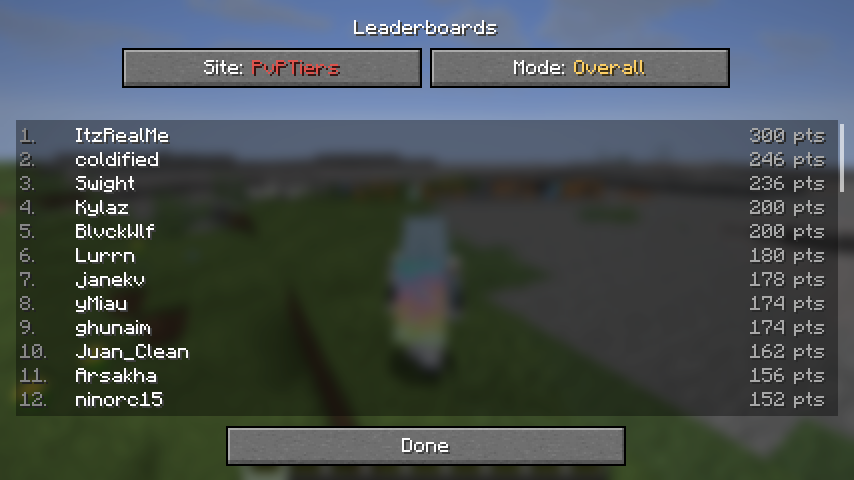
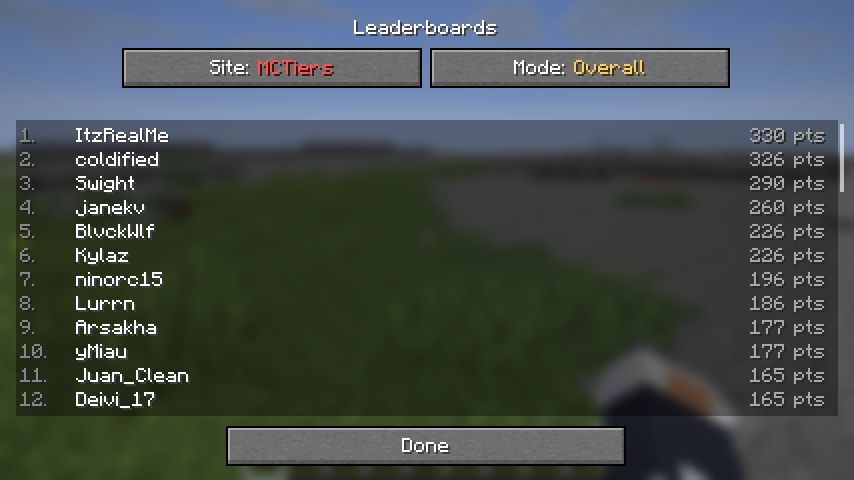
README: rewrite for 1.6.0 with fresh screenshots

diff --git a/README.md b/README.md
@@ -1,10 +1,10 @@
-<img src="src/main/resources/assets/qtiers/icon.png" width="96" align="right" alt="QTiers logo">
+<img src="common/src/main/resources/assets/qtiers/icon.png" width="96" align="right" alt="QTiers logo">
 
 # QTiers
 
 **Every PvP tier list, right next to a player's name.**
 
-QTiers is a Fabric client mod for **Minecraft 1.21.4, 1.21.8, 1.21.11, 26.1, 26.2 and 26.3**. It shows players' tier-list ranks in nametags and in the tab list, from six tier lists at once:
+QTiers is a Fabric client mod that shows players' tier-list ranks in nametags and in the tab list. It covers six tier lists at once:
 
 | Tier list | Label |
 |---|---|
@@ -15,7 +15,9 @@ QTiers is a Fabric client mod for **Minecraft 1.21.4, 1.21.8, 1.21.11, 26.1, 26.
 | [PVPHQ](https://pvphq.com) | HQ |
 | [TierMC](https://tiermc.com) | TMC |
 
-It works like TierTagger, but covers every site, and each site keeps its own icons. It runs only on your client, so it works on any server.
+It works like TierTagger, but covers every site, and each site keeps its own icons. It runs only on your client, so it works on any server, including ones with custom nametags like mcpvp.club.
+
+**Minecraft versions:** 1.21.4, 1.21.6 – 1.21.8, 1.21.11, 26.1 – 26.1.2, 26.2 and 26.3.
 
 ![Profile screen for qdran](profile-screen.png)
 
@@ -34,9 +36,13 @@ In third person you see your own nametag with your tiers, like the WhoAmI mod.
 ![Own nametag with tiers in F5](docs/f5-own-name.png)
 
 ### Opponent HUD
-When you hit a player, a small box shows their tiers on every site for 10 seconds. Press **Move** next to "Opponent HUD" in the settings to drag it anywhere on the screen.
+When you hit a player, a small box shows their tiers on every site for 10 seconds.
 
 ![Opponent HUD](docs/opponent-hud.png)
+
+Press **Move** next to "Opponent HUD" in the settings to drag the box anywhere on the screen. It stays in the same spot on any resolution or GUI scale.
+
+![Moving the opponent HUD](docs/move-hud.png)
 
 ### Player profiles
 `/qtiers <player>` opens a profile with a full-body skin render and every tier, peak, point total, rank and region from all six sites, plus a button to open the player's NameMC page. To open a profile you can also:
@@ -50,9 +56,9 @@ When you hit a player, a small box shows their tiers on every site for 10 second
 ![Online players](docs/online-players.png)
 
 ### Leaderboards
-`/qtiers top` shows the top players of **MCTiers**, **PvPTiers**, **SubTiers** or **TierMC**, overall or for one gamemode. PVPHQ and MCPVP have no public leaderboard, so they aren't included.
+`/qtiers top` shows the top players of **MCTiers**, **PvPTiers**, **SubTiers** or **TierMC**, overall or for one gamemode. Click a name to open their profile. PVPHQ and MCPVP have no public leaderboard, so they aren't included.
 
-![PvPTiers overall leaderboard](docs/leaderboard.png)
+![MCTiers overall leaderboard](docs/leaderboard.png)
 
 ### Compare players
 `/qtiers compare <player1> <player2>` puts two players side by side, site by site. When both are ranked in a gamemode, the better tier gets a ▲.
@@ -76,7 +82,7 @@ Open the settings with `/qtiers`, a keybind, or the Configure button in [Mod Men
 | Colored separator | The `\|` next to the name takes the tier's color |
 | Show retired | Includes retired tiers |
 | Own name in F5 | Shows your own nametag in third person |
-| Opponent HUD | Shows the tiers of the last player you hit |
+| Opponent HUD | Shows the tiers of the last player you hit; **Move** places it |
 | Clickable chat names | Clicking a name in chat opens that player's profile |
 
 ## Commands
@@ -88,6 +94,7 @@ Open the settings with `/qtiers`, a keybind, or the Configure button in [Mod Men
 | `/qtiers compare <a> <b>` | Compares two players |
 | `/qtiers` or `/qtiers settings` | Opens the settings |
 | `/qtiers reload` | Reloads the config and fetches tiers again |
+| `/qtiers debug` | Writes what the server sends for names and the tab list to the log, for servers where tiers don't show |
 
 ## Keybinds
 Set them under Options → Controls → QTiers.
@@ -103,16 +110,16 @@ Set them under Options → Controls → QTiers.
 
 ## Install
 1. Install [Fabric Loader](https://fabricmc.net/use/) for your Minecraft version.
-2. Download the jar for your version from the [releases page](https://github.com/Adrian1337afk/qtiers/releases), e.g. `qtiers-1.6.0+1.21.11.jar`:
+2. Download the jar for your version from the [latest release](https://github.com/Adrian1337afk/qtiers/releases/latest):
 
    | Minecraft | Jar |
    |---|---|
-   | 1.21.4 | `qtiers-<version>+1.21.4.jar` |
-   | 1.21.6 – 1.21.8 | `qtiers-<version>+1.21.8.jar` |
-   | 1.21.11 | `qtiers-<version>+1.21.11.jar` |
-   | 26.1 – 26.1.2 | `qtiers-<version>+26.1.jar` |
-   | 26.2 | `qtiers-<version>+26.2.jar` |
-   | 26.3 | `qtiers-<version>+26.3.jar` |
+   | 1.21.4 | `qtiers-1.6.0+1.21.4.jar` |
+   | 1.21.6 – 1.21.8 | `qtiers-1.6.0+1.21.8.jar` |
+   | 1.21.11 | `qtiers-1.6.0+1.21.11.jar` |
+   | 26.1 – 26.1.2 | `qtiers-1.6.0+26.1.jar` |
+   | 26.2 | `qtiers-1.6.0+26.2.jar` |
+   | 26.3 | `qtiers-1.6.0+26.3.jar` |
 
 3. Put it and [Fabric API](https://modrinth.com/mod/fabric-api) in `.minecraft/mods`.
 4. Optional: add [Mod Menu](https://modrinth.com/mod/modmenu) to open the settings from the mod list.
@@ -121,7 +128,7 @@ Set them under Options → Controls → QTiers.
 ```
 gradlew collectJars
 ```
-One jar per Minecraft version ends up in `build/libs/`. Shared code lives in `common/`; each version's Minecraft-facing code is in `versions/<minecraft>/`.
+One jar per Minecraft version ends up in `build/libs/`. Shared code (APIs, parsers, config, cache) lives in `common/`; each version's Minecraft-facing code is in `versions/<minecraft>/`.
 
 ## Credits
 - **Tier data:** the [MCTiers](https://mctiers.net/docs/v2), [PvPTiers](https://pvptiers.com), [SubTiers](https://subtiers.net), [PVPHQ](https://pvphq.com) and [TierMC](https://tiermc.com/api.html) APIs, and public [MCPVP](https://www.mcpvp.com) profile pages (MCPVP has no API).
